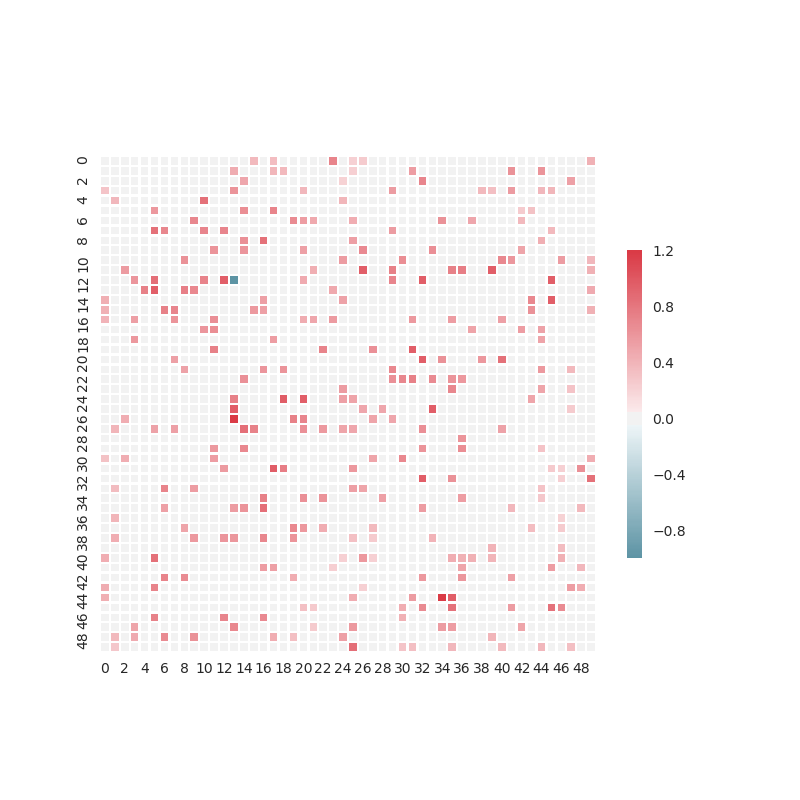
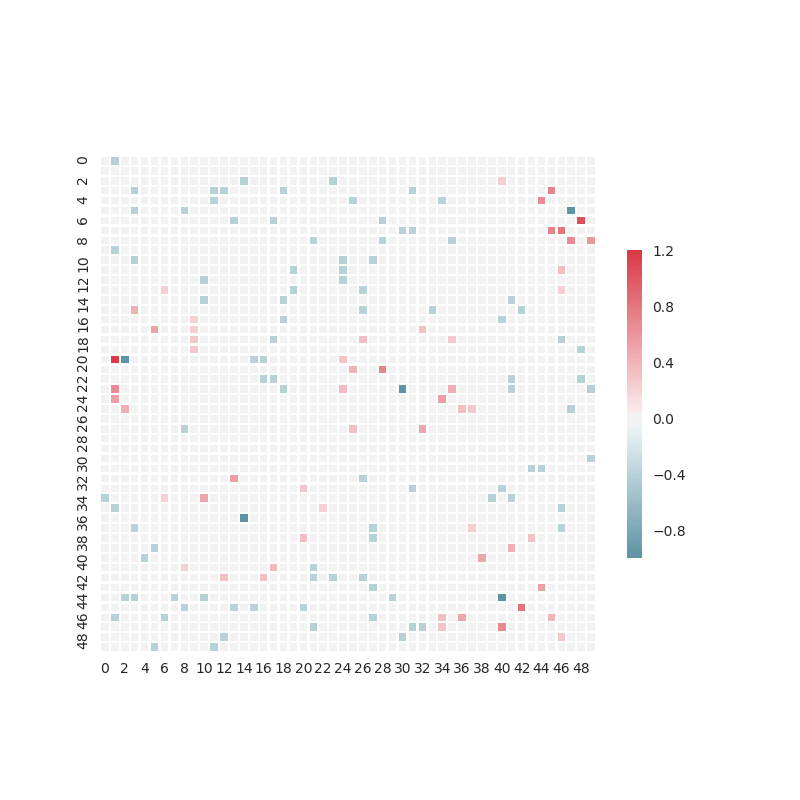
minor

diff --git a/plots.py b/plots.py
@@ -74,13 +74,13 @@ def visualize_sensor_output(grid_len, intruders, sensor_outputs, sensors, thresh
     for index, sensor in enumerate(sensors):
         if sensor_outputs[index] > threshold:
             color = (sensor_outputs[index] - minimum) / (maximum - minimum) + 0.2
-        #else:
-        #    color = 0
+        else:
+            color = -0.4
         grid[sensor.x][sensor.y] = color
         #print((sensor[0], sensor[1]), sensor_output[index], '--', color)
-    #for intr in [intruders]:
-    #    grid[intr.x][intr.y] = -1
-    grid[12][13] = -1
+    for intr in intruders:
+        grid[intr.x][intr.y] = -1
+
     sns.set(style="white")
     f, ax = plt.subplots(figsize=(8, 8))
     cmap = sns.diverging_palette(220, 10, as_cmap=True)
@@ -137,6 +137,43 @@ def visualize_localization(grid_len, true_locations, pred_locations, fig):
     plt.savefig('visualize/localization/{}-localization'.format(fig))
 
 
+
+def visualize_gupta(grid_len, true_locations, pred_locations, sensors, sensor_outputs, threshold, fig):
+    '''Visualize the localization
+    Args:
+        true_locations (list): each element is a coordinate (x, y)
+        pred_locations (list): each element is a coordinate (x, y)
+    '''
+    grid = np.zeros((grid_len, grid_len))
+
+    maximum = np.max(sensor_outputs)
+    minimum = np.min(sensor_outputs)
+    for index, sensor in enumerate(sensors):
+        if sensor_outputs[index] > threshold:
+            color = (sensor_outputs[index] - minimum) / (maximum - minimum)
+            color += 0.2
+        else:
+            color = -0.15                    # noise
+        grid[sensor.x][sensor.y] = color
+
+    for true in true_locations:
+        grid[true[0]][true[1]] = -0.4       # miss
+    for pred in pred_locations:
+        if grid[pred[0]][pred[1]] == -0.4:
+            grid[pred[0]][pred[1]] = -0.7  # accurate prediction
+        else:
+            grid[pred[0]][pred[1]] = -1    # false alarm
+    sns.set(style="white")
+    f, ax = plt.subplots(figsize=(8, 8))
+    cmap = sns.diverging_palette(220, 10, as_cmap=True)
+    sns.heatmap(grid, cmap=cmap, center=0, square=True, linewidth=1, cbar_kws={"shrink": .5})
+    plt.title('Now I only know how to use heatmap with two colors...')
+    plt.xlabel('Red(>0): sensor outputs not noise; -0.15 = noise \n -0.4 = miss; -0.7 = accurate prediction; -1 = false alarm')
+    #plt.show()
+    plt.savefig('visualize/localization/{}-all'.format(fig))
+
+
+
 def save_data_AGA(plot_data, file_path):
     '''Save the plot_data to file_path for offline greedy
         plot_data's element: [length of subset, ot approx, ot real]
@@ -164,4 +201,3 @@ def figure_localization_error():
 
 if __name__ == '__main__':
     figure_localization_error()
-    pass

diff --git a/select_sensor.py b/select_sensor.py
@@ -26,7 +26,7 @@ from itertools import combinations
 import line_profiler
 from sklearn.cluster import KMeans
 from scipy.optimize import nnls
-from plots import visualize_sensor_output, visualize_cluster, visualize_localization
+from plots import visualize_sensor_output, visualize_cluster, visualize_localization, visualize_gupta
 from utility import generate_intruders
 from skimage.feature import peak_local_max
 import itertools
@@ -2272,7 +2272,7 @@ def main5():
     '''main 5: IPSN synthetic data
     '''
     selectsensor = SelectSensor('config/ipsn_50.json')
-    selectsensor.init_data('data50/homogeneous-300/cov', 'data50/homogeneous-300/sensors', 'data50/homogeneous-300/hypothesis')
+    selectsensor.init_data('data50/homogeneous-150/cov', 'data50/homogeneous-150/sensors', 'data50/homogeneous-150/hypothesis')
 
     repeat = 1
     errors = []
@@ -2281,15 +2281,17 @@ def main5():
     start = time.time()
 
     for i in range(0, repeat):
-        true_indices = generate_intruders(grid_len=selectsensor.grid_len, edge=2, num=30, min_dist=5)
+        #true_indices = generate_intruders(grid_len=selectsensor.grid_len, edge=2, num=30, min_dist=5)
+        true_indices = [(20, 2), (36, 14), (23, 30), (44, 40), (5, 47)]
         #true_indices = [(35, 12), (27, 36), (47, 36), (5, 46), (14, 14)]
         #true_indices = [(6, 12), (46, 29), (40, 4), (26, 26), (12, 46)]
         #true_indices = [[29, 28], [33, 29], [31, 28], [31, 27], [30, 28], [30, 27], [32, 28]]
-        #true_indices = [x * selectsensor.grid_len + y for (x, y) in true_indices]
+        true_indices = [x * selectsensor.grid_len + y for (x, y) in true_indices]
 
         intruders, sensor_outputs = selectsensor.set_intruders(true_indices=true_indices, randomness=False)
+        sensor_outputs_copy = copy.copy(sensor_outputs)
         visualize_sensor_output(selectsensor.grid_len, intruders, sensor_outputs, selectsensor.sensors, -80, i)
-        return
+
         pred_locations = selectsensor.get_posterior_localization(sensor_outputs)
         #pred_locations = selectsensor.get_cluster_localization(intruders, sensor_outputs)
 
@@ -2303,8 +2305,9 @@ def main5():
             false_alarms.append(false_alarm)
             print(error, miss, false_alarm, '\n')
             visualize_localization(selectsensor.grid_len, true_positions, pred_locations, i)
-        except:
-            print('except')
+            visualize_gupta(selectsensor.grid_len, true_positions, pred_locations, selectsensor.sensors, sensor_outputs_copy, -80, i)
+        except Exception as e:
+            print(e)
 
     try:
         print('(mean/max/min) error=({}/{}/{}), miss=({}/{}/{}), false_alarm=({}/{}/{})'.format(sum(errors)/repeat, max(errors), min(errors), \
